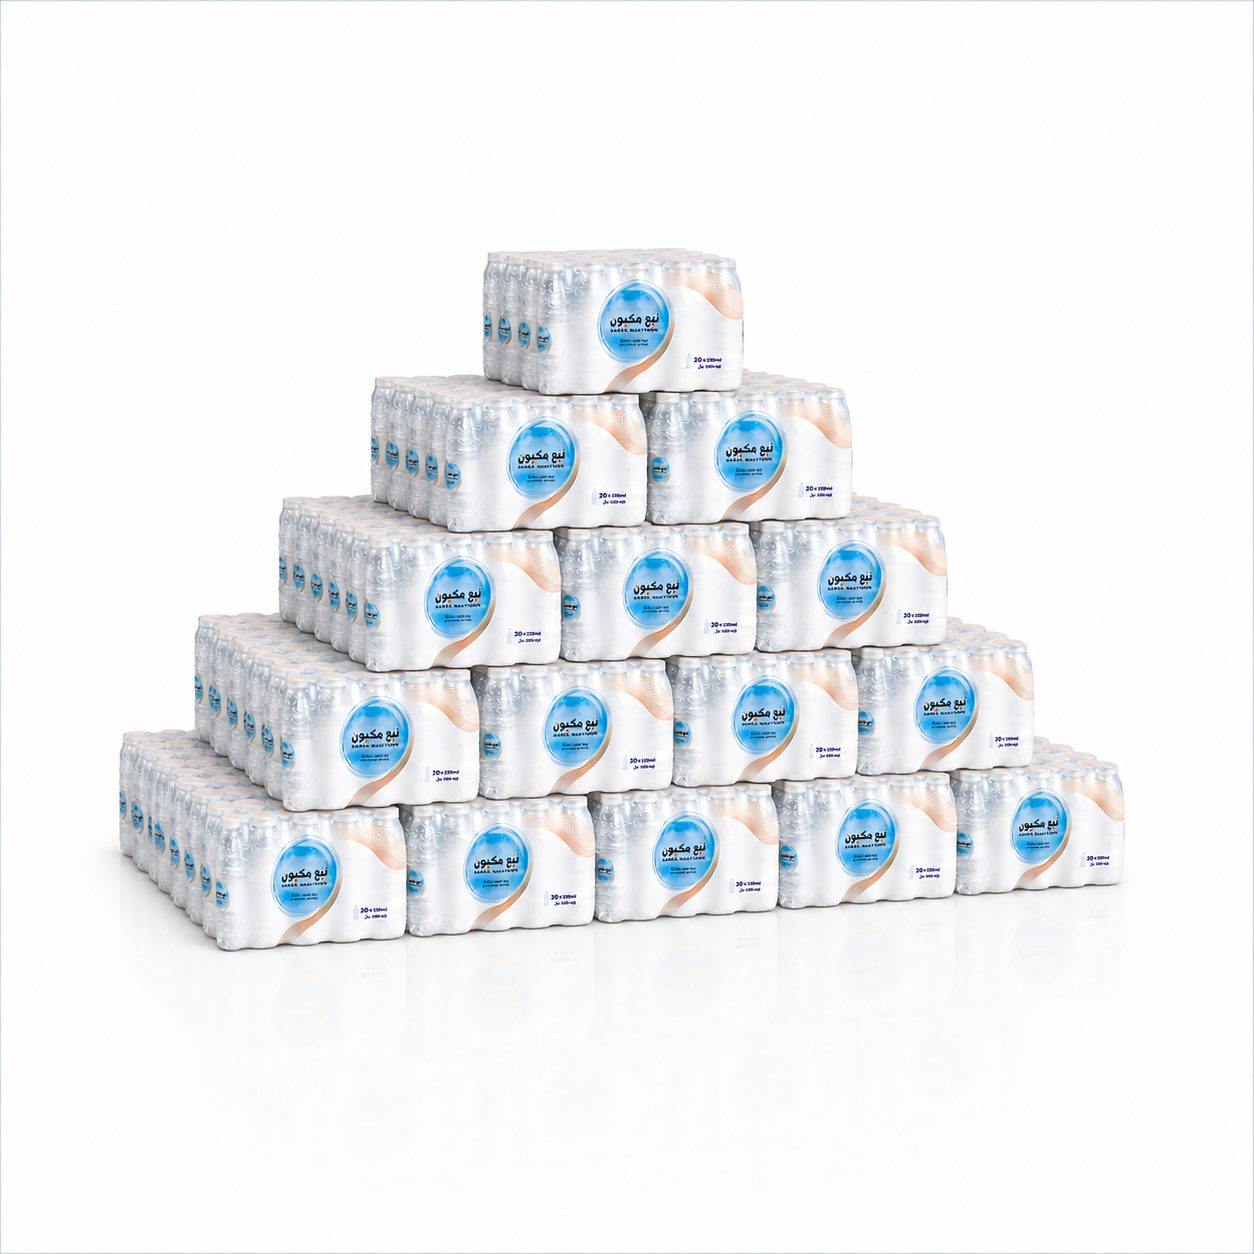
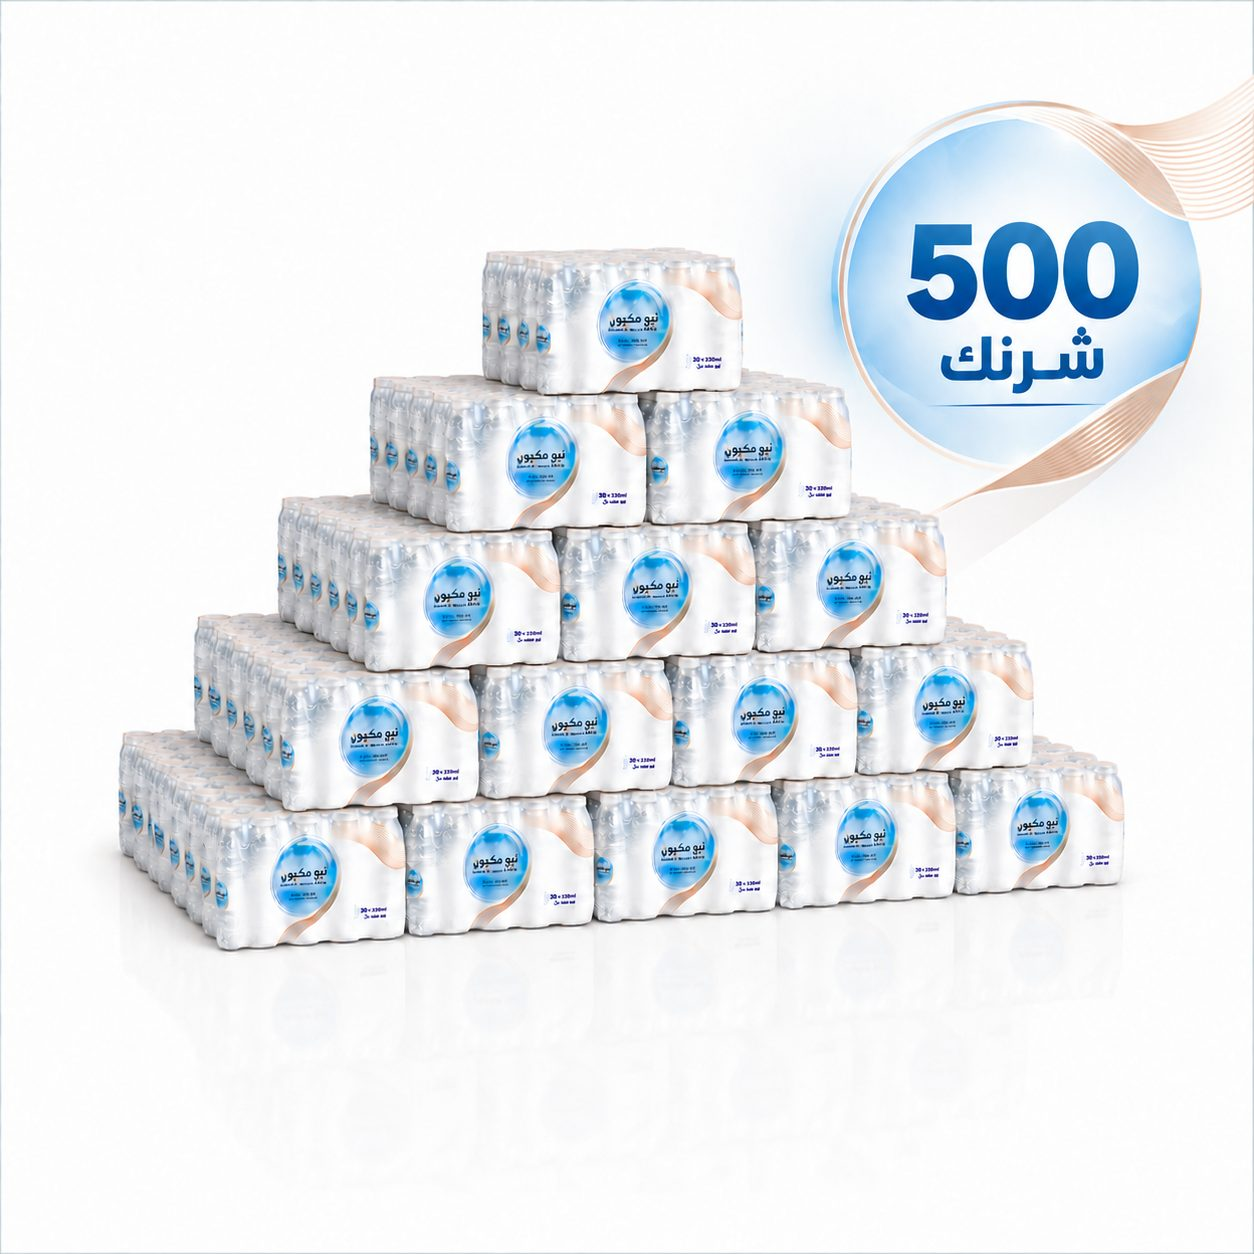
Fixed bottom nav bar, smaller cards, static header, blue Add to Cart
- Move all nav actions (shop/orders/cart/account/sign in-out) out of the
  header into a new fixed bottom nav bar that stays visible regardless of
  scroll position. Header is now just the logo, no longer sticky, so it
  scrolls away with the page.
- Shrink product cards further (4/5/6-column grid instead of 3/4/5); the
  name box now shows a static "مياه 330 مل" instead of the tier name, and
  the quantity/price boxes stack instead of sitting side-by-side so they
  stay readable at the smaller width.
- Give the Add to Cart button a light blue tint (bg-ocean-50) instead of
  white.
- Raise the WhatsApp button above the new fixed bottom nav so they don't
  overlap.
- Swap in the updated غيث/مزنة product photos (now with شرنك-count badges
  baked into the image).

diff --git a/src/app/(shop)/categories/page.tsx b/src/app/(shop)/categories/page.tsx
@@ -13,7 +13,7 @@ export default async function ShopPage() {
     <div>
       <h1 className="text-2xl font-semibold text-neutral-900">{t(locale, 'shop.title')}</h1>
 
-      <div className="mt-6 grid grid-cols-3 gap-2.5 sm:grid-cols-4 lg:grid-cols-5">
+      <div className="mt-6 grid grid-cols-4 gap-2 sm:grid-cols-5 lg:grid-cols-6">
         {products.map((product, i) => (
           <div
             key={product.id}
@@ -26,28 +26,26 @@ export default async function ShopPage() {
                   src={product.image_url}
                   alt={translateProductName(locale, product)}
                   fill
-                  sizes="(max-width: 640px) 33vw, (max-width: 1024px) 25vw, 20vw"
+                  sizes="(max-width: 640px) 25vw, (max-width: 1024px) 20vw, 16vw"
                   className="object-contain"
                 />
               )}
             </Link>
-            <div className="flex flex-1 flex-col gap-1.5 p-2">
+            <div className="flex flex-1 flex-col gap-1 p-1.5">
               <Link
                 href={`/products/${product.slug}`}
-                className="rounded-md bg-ocean-50 px-1.5 py-1 text-center text-xs font-semibold text-neutral-900"
+                className="rounded bg-ocean-50 px-1 py-0.5 text-center text-[10px] font-semibold text-neutral-900"
               >
-                {translateProductName(locale, product)}
+                مياه 330 مل
               </Link>
-              <div className="flex gap-1.5">
-                {product.unit && (
-                  <span className="flex-1 rounded-md bg-neutral-50 px-1 py-1 text-center text-[11px] text-neutral-600">
-                    {product.unit}
-                  </span>
-                )}
-                <span dir="ltr" className="flex-1 rounded-md bg-neutral-50 px-1 py-1 text-center text-[11px] font-semibold text-neutral-900">
-                  {product.price.toFixed(2)} SAR
+              {product.unit && (
+                <span className="rounded bg-neutral-50 px-1 py-0.5 text-center text-[10px] text-neutral-600">
+                  {product.unit}
                 </span>
-              </div>
+              )}
+              <span dir="ltr" className="rounded bg-neutral-50 px-1 py-0.5 text-center text-[10px] font-semibold text-neutral-900">
+                {product.price.toFixed(2)} SAR
+              </span>
               <div className="mt-auto">
                 {product.in_stock ? (
                   <AddToCartButton productId={product.id} loggedIn={!!profile} />

diff --git a/src/components/shop/shop-header.tsx b/src/components/shop/shop-header.tsx
@@ -1,60 +1,12 @@
-'use client'
-
 import Link from 'next/link'
-import { signOut } from '@/lib/actions/auth'
-import { useLocale } from '@/lib/i18n/client'
 
-const linkClass =
-  'rounded-lg border border-ocean-200 px-3 py-1.5 text-sm font-medium text-neutral-600 transition hover:border-ocean-400 hover:bg-ocean-50 hover:text-ocean-600'
-
-export function ShopHeader({
-  loggedIn,
-  cartCount,
-}: {
-  loggedIn: boolean
-  cartCount: number
-}) {
-  const { t } = useLocale()
-  const cartLabel = cartCount > 0 ? `${t('nav.cart')} (${cartCount})` : t('nav.cart')
-
+export function ShopHeader() {
   return (
-    <header className="sticky top-0 z-10 border-b border-ocean-200 bg-white/85 backdrop-blur-md">
-      <div className="mx-auto flex max-w-5xl flex-wrap items-center justify-between gap-3 px-4 py-4">
+    <header className="border-b border-ocean-200 bg-white/85 backdrop-blur-md">
+      <div className="mx-auto flex max-w-5xl items-center justify-center px-4 py-4">
         <Link href="/categories" className="text-lg font-semibold text-ocean-700">
           التسنيم المكي
         </Link>
-
-        {/* Flat, always-visible nav — wraps naturally on narrow screens
-            instead of collapsing behind a hamburger/dropdown. */}
-        <nav className="flex flex-wrap items-center gap-2">
-          <Link href="/categories" className={linkClass}>
-            {t('nav.shop')}
-          </Link>
-          {loggedIn && (
-            <Link href="/orders" className={linkClass}>
-              {t('nav.orders')}
-            </Link>
-          )}
-          <Link href="/cart" className={linkClass}>
-            {cartLabel}
-          </Link>
-          {loggedIn ? (
-            <>
-              <Link href="/account" className={linkClass}>
-                {t('nav.account')}
-              </Link>
-              <form action={signOut}>
-                <button type="submit" className={linkClass}>
-                  {t('nav.logout')}
-                </button>
-              </form>
-            </>
-          ) : (
-            <Link href="/login" className={linkClass}>
-              {t('nav.login')}
-            </Link>
-          )}
-        </nav>
       </div>
     </header>
   )

diff --git a/src/components/shop/whatsapp-button.tsx b/src/components/shop/whatsapp-button.tsx
@@ -11,7 +11,7 @@ export function WhatsAppButton({ locale }: { locale: Locale }) {
       rel="noopener noreferrer"
       aria-label={t(locale, 'whatsapp.chat')}
       title={t(locale, 'whatsapp.chat')}
-      className="fixed bottom-5 right-5 z-50 flex h-10 w-10 items-center justify-center rounded-full bg-[#25D366] text-white shadow-lg transition hover:bg-[#1ebe5a] hover:scale-105"
+      className="fixed bottom-20 right-5 z-50 flex h-10 w-10 items-center justify-center rounded-full bg-[#25D366] text-white shadow-lg transition hover:bg-[#1ebe5a] hover:scale-105"
     >
       <svg width="20" height="20" viewBox="0 0 32 32" fill="currentColor" aria-hidden="true">
         <path d="M16.001 3C9.107 3 3.5 8.607 3.5 15.5c0 2.393.664 4.63 1.816 6.54L3 29l7.146-2.276A12.44 12.44 0 0 0 16.001 28C22.894 28 28.5 22.393 28.5 15.5S22.894 3 16.001 3Zm0 22.7a10.16 10.16 0 0 1-5.176-1.418l-.371-.22-4.24 1.35 1.373-4.132-.242-.386A10.15 10.15 0 0 1 5.8 15.5c0-5.633 4.568-10.2 10.201-10.2 5.632 0 10.199 4.567 10.199 10.2 0 5.632-4.567 10.2-10.199 10.2Zm5.593-7.632c-.306-.153-1.81-.893-2.09-.995-.28-.102-.484-.153-.688.153-.204.306-.79.994-.968 1.198-.178.204-.357.23-.663.077-.306-.153-1.293-.477-2.463-1.52-.91-.812-1.525-1.814-1.703-2.12-.178-.306-.019-.472.134-.624.137-.137.306-.357.459-.535.153-.178.204-.306.306-.51.102-.204.05-.383-.026-.535-.077-.153-.688-1.658-.943-2.27-.248-.596-.5-.516-.688-.526-.178-.008-.382-.01-.586-.01-.204 0-.535.077-.815.383-.28.306-1.069 1.045-1.069 2.55 0 1.505 1.094 2.96 1.246 3.164.153.204 2.153 3.287 5.216 4.61.729.315 1.297.503 1.74.643.731.232 1.396.2 1.922.121.586-.087 1.81-.74 2.065-1.454.255-.714.255-1.326.178-1.454-.076-.128-.28-.204-.586-.357Z" />

diff --git a/src/components/shop/bottom-nav.tsx b/src/components/shop/bottom-nav.tsx
@@ -1,0 +1,53 @@
+'use client'
+
+import Link from 'next/link'
+import { signOut } from '@/lib/actions/auth'
+import { useLocale } from '@/lib/i18n/client'
+
+const itemClass =
+  'flex flex-1 flex-col items-center justify-center gap-0.5 py-2.5 text-[11px] font-medium text-neutral-600 transition hover:text-ocean-600'
+
+export function BottomNav({
+  loggedIn,
+  cartCount,
+}: {
+  loggedIn: boolean
+  cartCount: number
+}) {
+  const { t } = useLocale()
+  const cartLabel = cartCount > 0 ? `${t('nav.cart')} (${cartCount})` : t('nav.cart')
+
+  return (
+    <nav className="fixed inset-x-0 bottom-0 z-40 border-t border-ocean-200 bg-white/95 backdrop-blur-md">
+      <div className="mx-auto flex max-w-5xl items-stretch">
+        <Link href="/categories" className={itemClass}>
+          {t('nav.shop')}
+        </Link>
+        {loggedIn && (
+          <Link href="/orders" className={itemClass}>
+            {t('nav.orders')}
+          </Link>
+        )}
+        <Link href="/cart" className={itemClass}>
+          {cartLabel}
+        </Link>
+        {loggedIn ? (
+          <>
+            <Link href="/account" className={itemClass}>
+              {t('nav.account')}
+            </Link>
+            <form action={signOut} className="flex flex-1">
+              <button type="submit" className={`${itemClass} w-full`}>
+                {t('nav.logout')}
+              </button>
+            </form>
+          </>
+        ) : (
+          <Link href="/login" className={itemClass}>
+            {t('nav.login')}
+          </Link>
+        )}
+      </div>
+    </nav>
+  )
+}

diff --git a/src/app/(shop)/layout.tsx b/src/app/(shop)/layout.tsx
@@ -3,6 +3,7 @@ import { createAdminClient } from '@/lib/supabase/admin'
 import { getCurrentProfile } from '@/lib/profile'
 import { getLocale } from '@/lib/i18n/server'
 import { ShopHeader } from '@/components/shop/shop-header'
+import { BottomNav } from '@/components/shop/bottom-nav'
 import { SiteFooter } from '@/components/shop/site-footer'
 import { WhatsAppButton } from '@/components/shop/whatsapp-button'
 
@@ -17,8 +18,8 @@ export default async function ShopLayout({ children }: { children: React.ReactNo
   }
 
   return (
-    <div className="flex min-h-screen flex-col">
-      <ShopHeader loggedIn={!!profile} cartCount={cartCount} />
+    <div className="flex min-h-screen flex-col pb-16">
+      <ShopHeader />
       <Image
         src="/hero.jpeg"
         alt="نبع مكيون — نقاء من قلب مكة، مستمد من جوار زمزم"
@@ -30,6 +31,7 @@ export default async function ShopLayout({ children }: { children: React.ReactNo
       />
       <main className="mx-auto w-full max-w-5xl flex-1 px-4 py-8">{children}</main>
       <SiteFooter />
+      <BottomNav loggedIn={!!profile} cartCount={cartCount} />
       <WhatsAppButton locale={locale} />
     </div>
   )

diff --git a/src/components/shop/add-to-cart-button.tsx b/src/components/shop/add-to-cart-button.tsx
@@ -26,7 +26,7 @@ export function AddToCartButton({ productId, loggedIn }: { productId: string; lo
           setTimeout(() => setAdded(false), 1500)
         })
       }}
-      className="w-full rounded-lg border border-ocean-400 bg-white py-2 text-sm font-semibold text-ocean-700 transition hover:border-ocean-500 hover:bg-ocean-50 disabled:opacity-50"
+      className="w-full rounded-lg border border-ocean-400 bg-ocean-50 py-2 text-sm font-semibold text-ocean-700 transition hover:border-ocean-500 hover:bg-ocean-100 disabled:opacity-50"
     >
       {isPending ? t('shop.adding') : added ? t('shop.added') : t('shop.addToCart')}
     </button>
